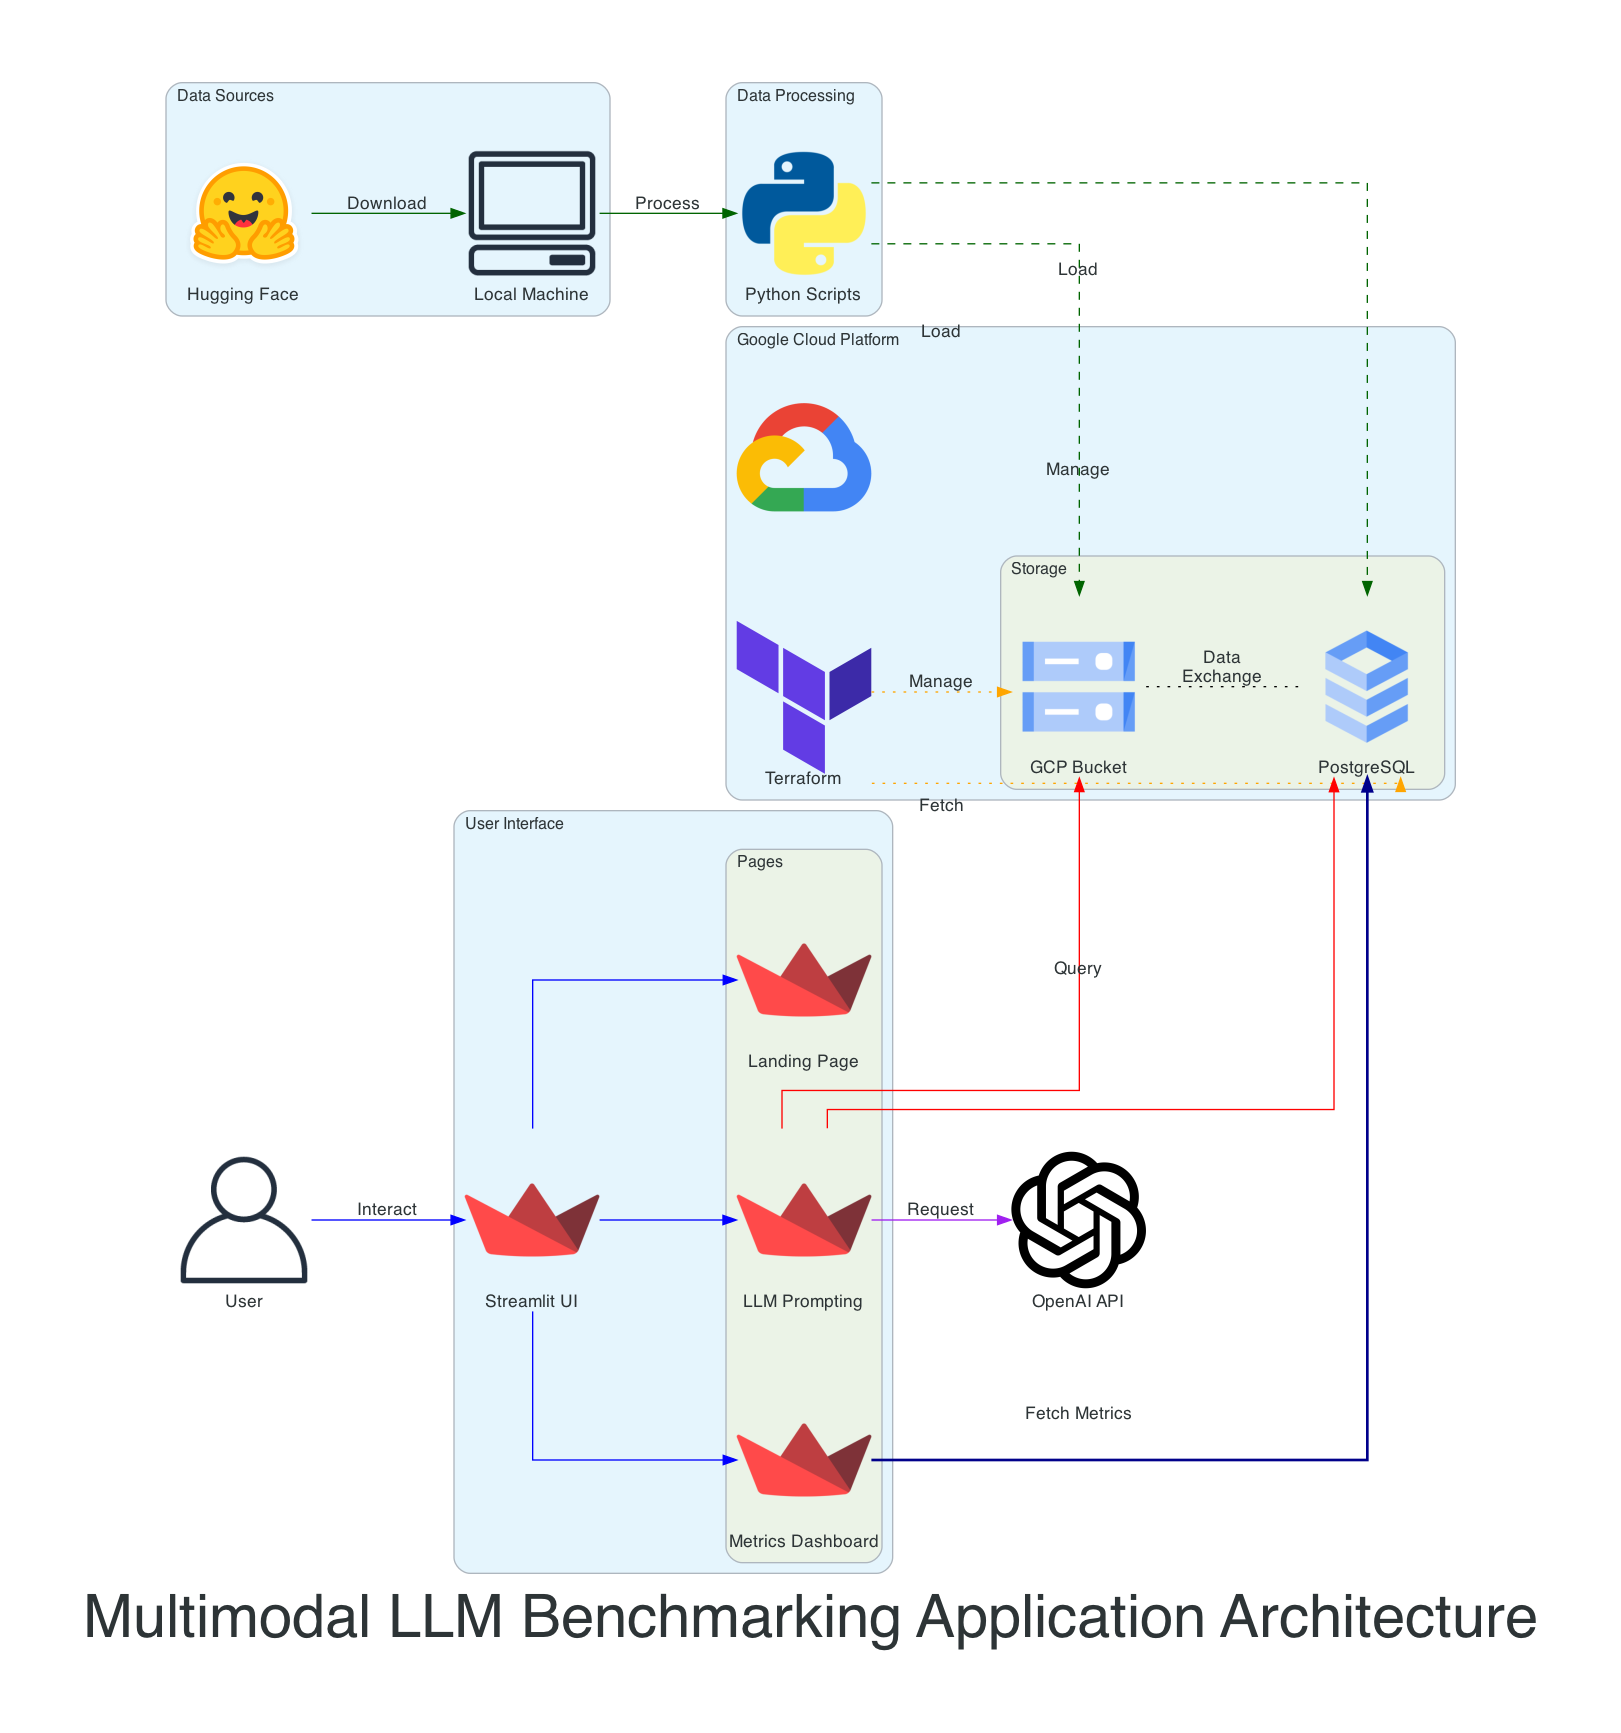
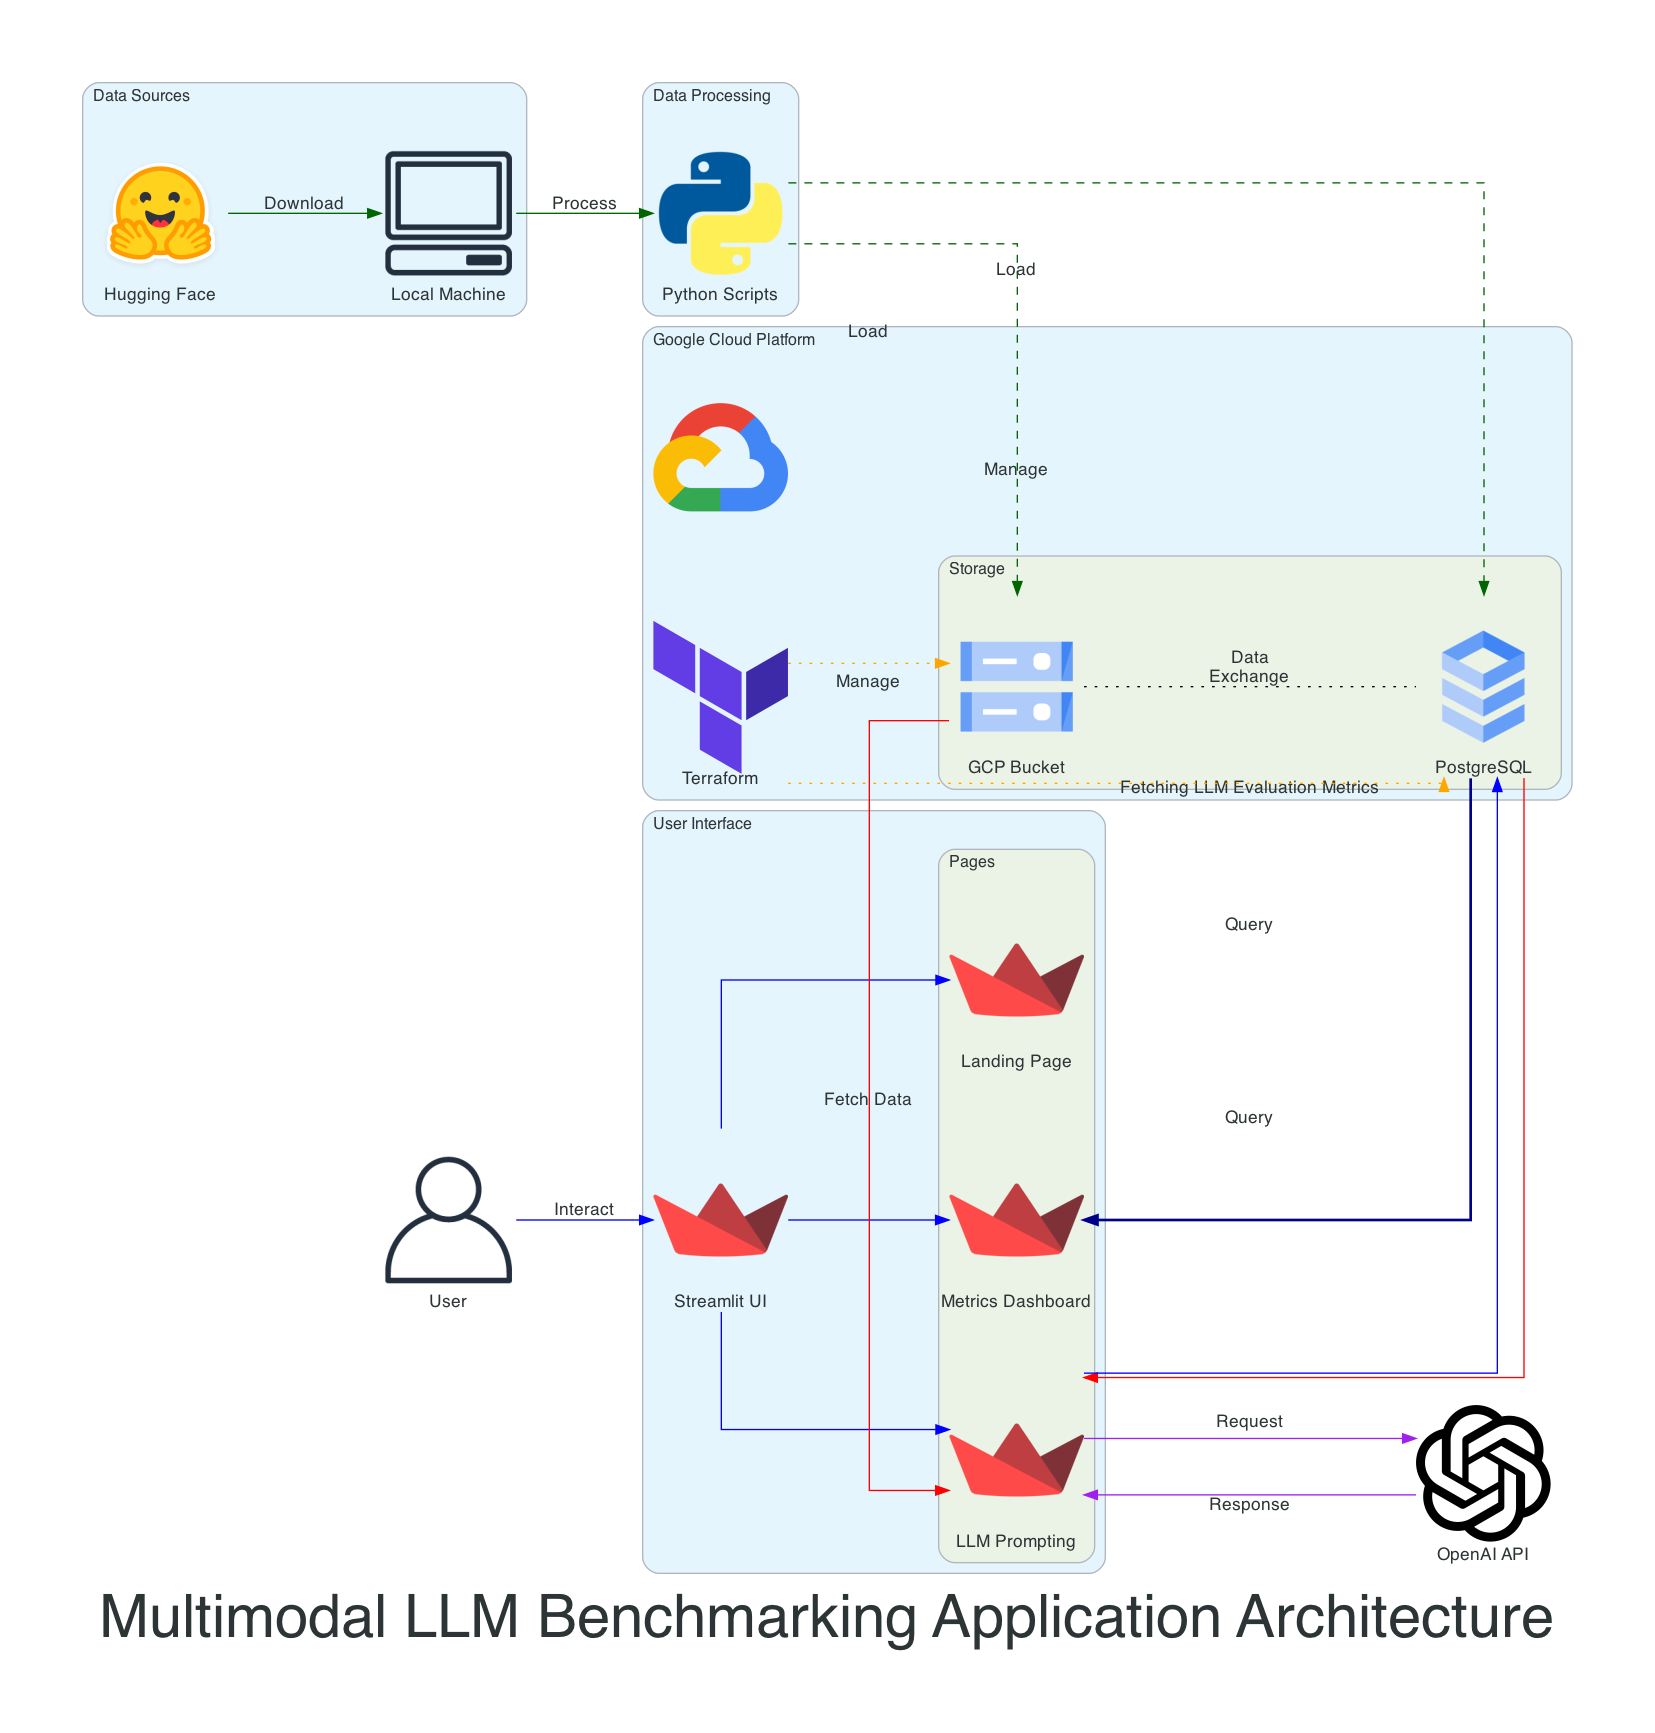
Readme updated

diff --git a/README.md b/README.md
@@ -1,7 +1,21 @@
 # GAIA Benchmark Validation Application
+![Python](https://img.shields.io/badge/Python-3776AB?style=for-the-badge&logo=python&logoColor=white)
+![Streamlit](https://img.shields.io/badge/Streamlit-FF4B4B?style=for-the-badge&logo=streamlit&logoColor=white)
+![OpenAI](https://img.shields.io/badge/OpenAI-412991?style=for-the-badge&logo=openai&logoColor=white)
+![Hugging Face](https://img.shields.io/badge/Hugging_Face-FFCA28?style=for-the-badge&logo=huggingface&logoColor=white)
+![Terraform](https://img.shields.io/badge/Terraform-623CE4?style=for-the-badge&logo=terraform&logoColor=white)
+![Google Cloud](https://img.shields.io/badge/Google_Cloud-4285F4?style=for-the-badge&logo=google-cloud&logoColor=white)
+![PostgreSQL](https://img.shields.io/badge/PostgreSQL-4169E1?style=for-the-badge&logo=postgresql&logoColor=white)
+
+
+
+
+
+
+
 
 ## Abstract
-This project is focused on building an evaluation tool for the GAIA dataset using Streamlit. The application allows users to select test cases from a multi-model validation dataset, send queries to the OpenAI model, and evaluate its responses. The application enables users to compare model outputs with expected answers, providing options to correct and re-evaluate the model performance. A final summary of results is generated to track performance across various test cases.
+This project builds a validation tool for the GAIA dataset using a multi-page Streamlit interface. It allows users to randomly select and evaluate test cases, query different LLM models via the OpenAI API, and compare model responses with expected answers. Users can annotate incorrect responses and re-evaluate the model’s performance. A metrics dashboard displays the overall performance, and all interactions are tracked in a database for reporting and analytics.
 
 ## Checklist of Deliverables
 - [x] Diagrams illustrating system architecture
@@ -11,61 +25,64 @@ This project is focused on building an evaluation tool for the GAIA dataset usin
 - [x] GitHub repository with project files and documentation
 
 ## Architecture
-The architecture includes the following components:
-1. **GAIA Dataset**: Provides structured metadata for validation purposes. The multi-model dataset includes metadata for test cases.
-2. **Streamlit Application**: A multi-page UI built to explore test cases one at a time.
-3. **Interaction with OpenAI API**: Sends test case data to OpenAI, receives responses, and allows user comparison with expected outputs.
-4. **Editable Annotations**: Provides a mechanism for users to adjust test case annotations if OpenAI’s answer is incorrect, then re-evaluate.
-5. **Feedback and Reporting**: Records user feedback, visualizes test case performance, and generates a summary report.
+The architecture consists of the following components:
+
+![Architecure Diagram](assets/multimodal_llm_benchmarking_application_architecture.png)
+
+
+1. **Data Sources**:
+   - **Hugging Face**: Provides the GAIA dataset for validation and testing.
+   - **GCP (Google Cloud Platform)**: Handles storage via GCS (Google Cloud Storage) buckets and stores metadata in a PostgreSQL database.
+
+2. **Infrastructure**: 
+   - **Terraform**: Automates the setup of GCP resources such as databases and buckets.
+
+3. **Streamlit Application**: 
+   - Multi-page UI with the following pages:
+     - **Landing Page**: Documentation and introduction to the application.
+     - **LLM Prompting Page**: Allows users to select a random task, submit a query to OpenAI models, and interact with responses.
+     - **Metrics Dashboard**: Provides visualizations and reports on model performance.
+
+4. **LLM Interaction**: 
+   - **OpenAI API**: Queries are sent to OpenAI models for LLM responses, which are stored for comparison and further processing.
+
+5. **Database**:
+   - **PostgreSQL**: Stores task metadata, LLM responses, annotations, and interaction logs for analysis.
+
+6. **Storage**: 
+   - **GCS (Google Cloud Storage)**: Manages file uploads, including task-related files fetched during LLM processing.
 
 ## Tech Stack
-- **Streamlit**: Front-end for multi-page application development
-- **OpenAI API**: For generating model responses
-- **GAIA Dataset**: For test case and validation data
-- **Python**: Core language for backend logic and integration
-- **S3 Bucket (or alternative)**: Suggested for data storage and staging
+- **Streamlit**: For the multi-page UI and interaction.
+- **Hugging Face**: Source for GAIA dataset.
+- **OpenAI API**: Used for querying different language models.
+- **Google Cloud Platform** (GCS, PostgreSQL): Storage and database.
+- **Terraform**: Infrastructure management.
+- **Python**: For backend logic and integration with various APIs.
 
 ## Dataset
-- **GAIA Dataset**: A multi-model validation dataset accessible via Hugging Face [GAIA Datasets](https://huggingface.co/datasets/gaia-benchmark/GAIA). It contains structured metadata essential for validation and test cases. The dataset is used to compare OpenAI model responses with predefined answers.
-
-## Features
-- Select specific test cases from GAIA validation dataset.
-- Send test case queries to OpenAI API for evaluation.
-- Compare OpenAI responses with expected answers.
-- Annotate and re-evaluate test cases in case of incorrect responses.
-- Generate summary reports visualizing the performance of test cases.
-
-## Installation
-1. Clone the repository:
-   ```bash
-   git clone <repository-url>
-   cd <repository-directory>
-   ```
-2. Install required dependencies:
-   ```bash
-   pip install -r requirements.txt
-   ```
-3. Set up your OpenAI API key in the environment:
-   ```bash
-   export OPENAI_API_KEY='your-api-key-here'
-   ```
-
-## Usage
-1. Run the Streamlit application:
-   ```bash
-   streamlit run app.py
-   ```
-2. Select a test case from the GAIA validation dataset.
-3. Submit the test case to OpenAI and compare the response.
-4. Annotate incorrect responses and re-submit for evaluation.
-5. View summary results and feedback.
+- **GAIA Dataset**: Available via Hugging Face, the GAIA dataset contains structured metadata and test cases. It forms the core of the benchmarking process.
 
 ## Data Storage
-The data storage design involves a staging phase, where test case data and model responses are stored in an S3 bucket or an alternative cloud storage solution. This ensures efficient data handling and retrieval for evaluation purposes.
 
-## License
-This project is licensed under the MIT License.
+- Files and task-related data are stored in Google Cloud Storage (GCS) buckets.
+- PostgreSQL on GCP is used for storing metadata, LLM responses, and user annotations.
 
----
 
-Feel free to modify any sections or add additional details!
+## Features
+
+### Landing Page:
+- Basic documentation and overview of the application.
+
+### LLM Prompting Page:
+- Pick a random task from the GAIA dataset.
+- Select from different LLM models (default to one OpenAI model).
+- Fetch associated files from GCP and provide context for the query.
+- Submit the question along with the context to OpenAI and view the LLM response.
+- Annotate responses and re-submit the task for evaluation.
+- Save responses to the database, either as-is or after annotation.
+
+### Metrics Dashboard:
+- Visualize performance metrics, including model accuracy, response quality, and interaction history.
+
+
